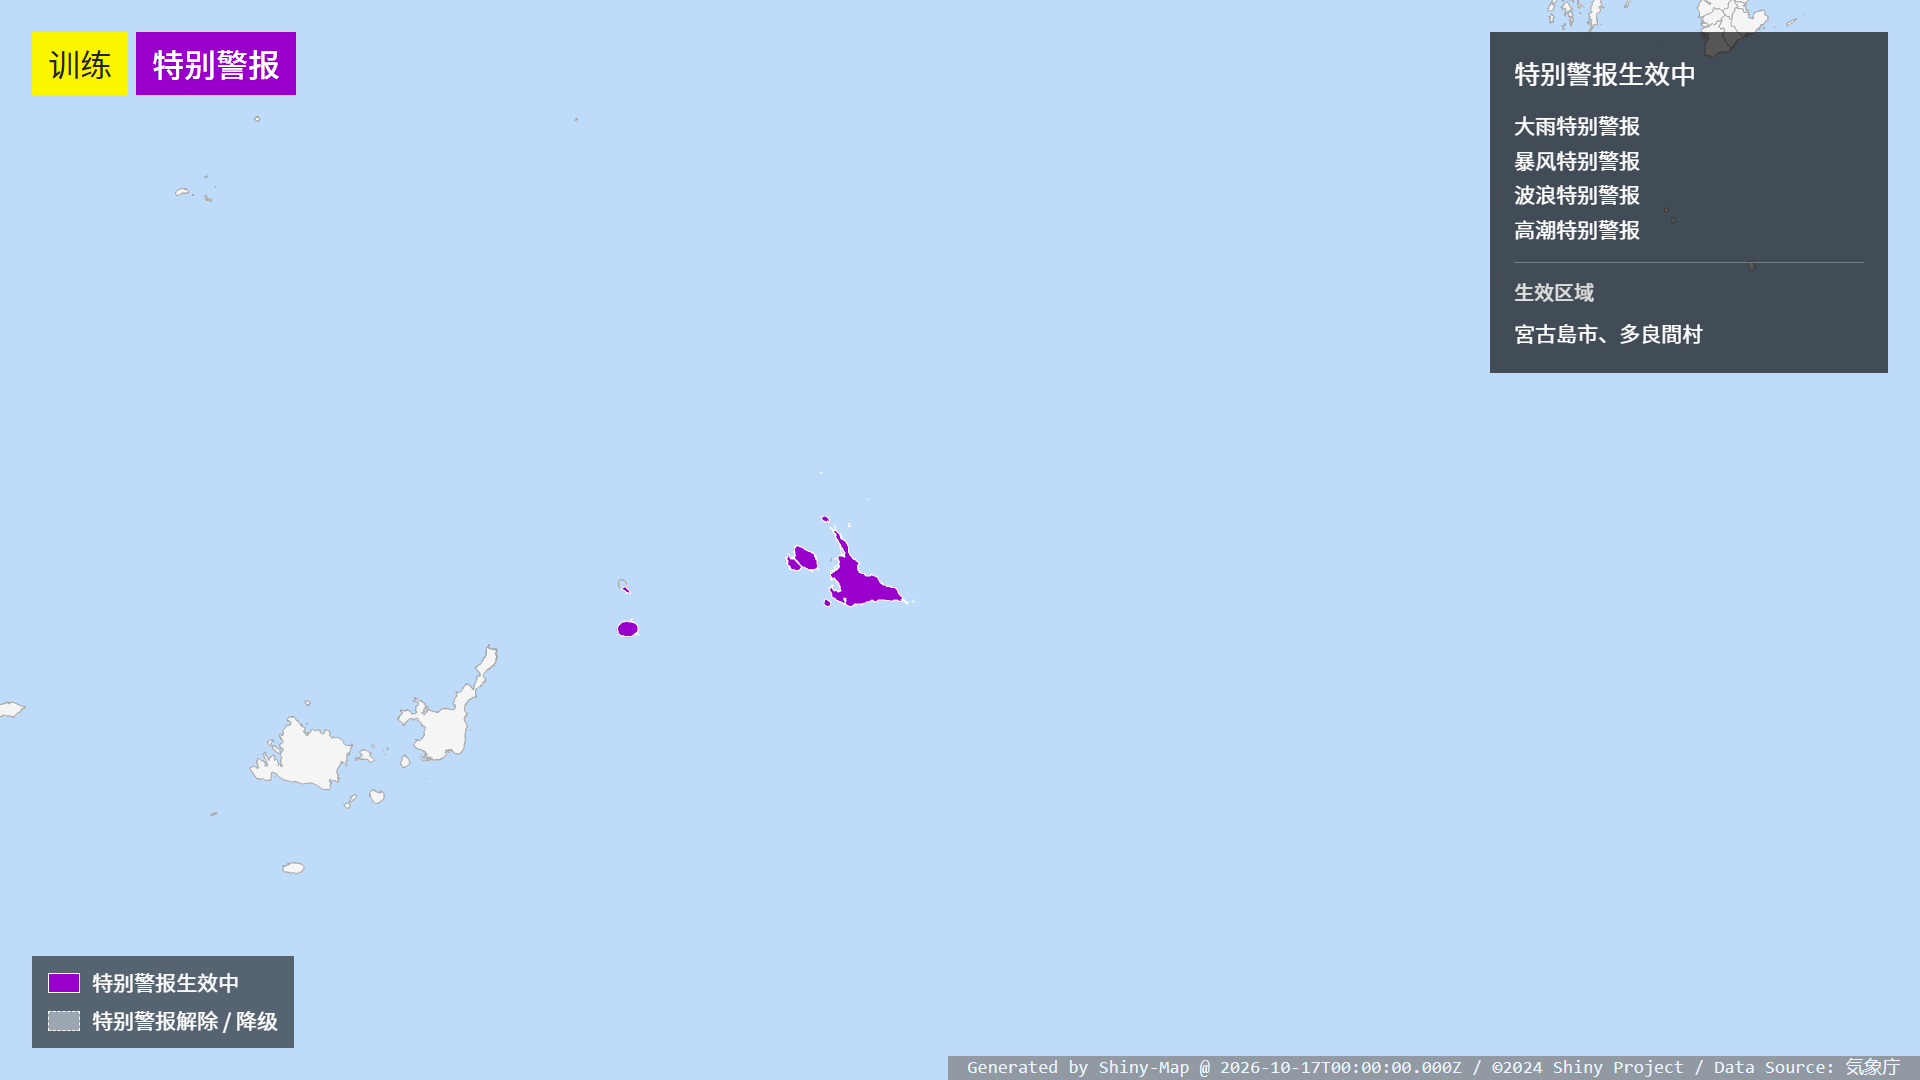
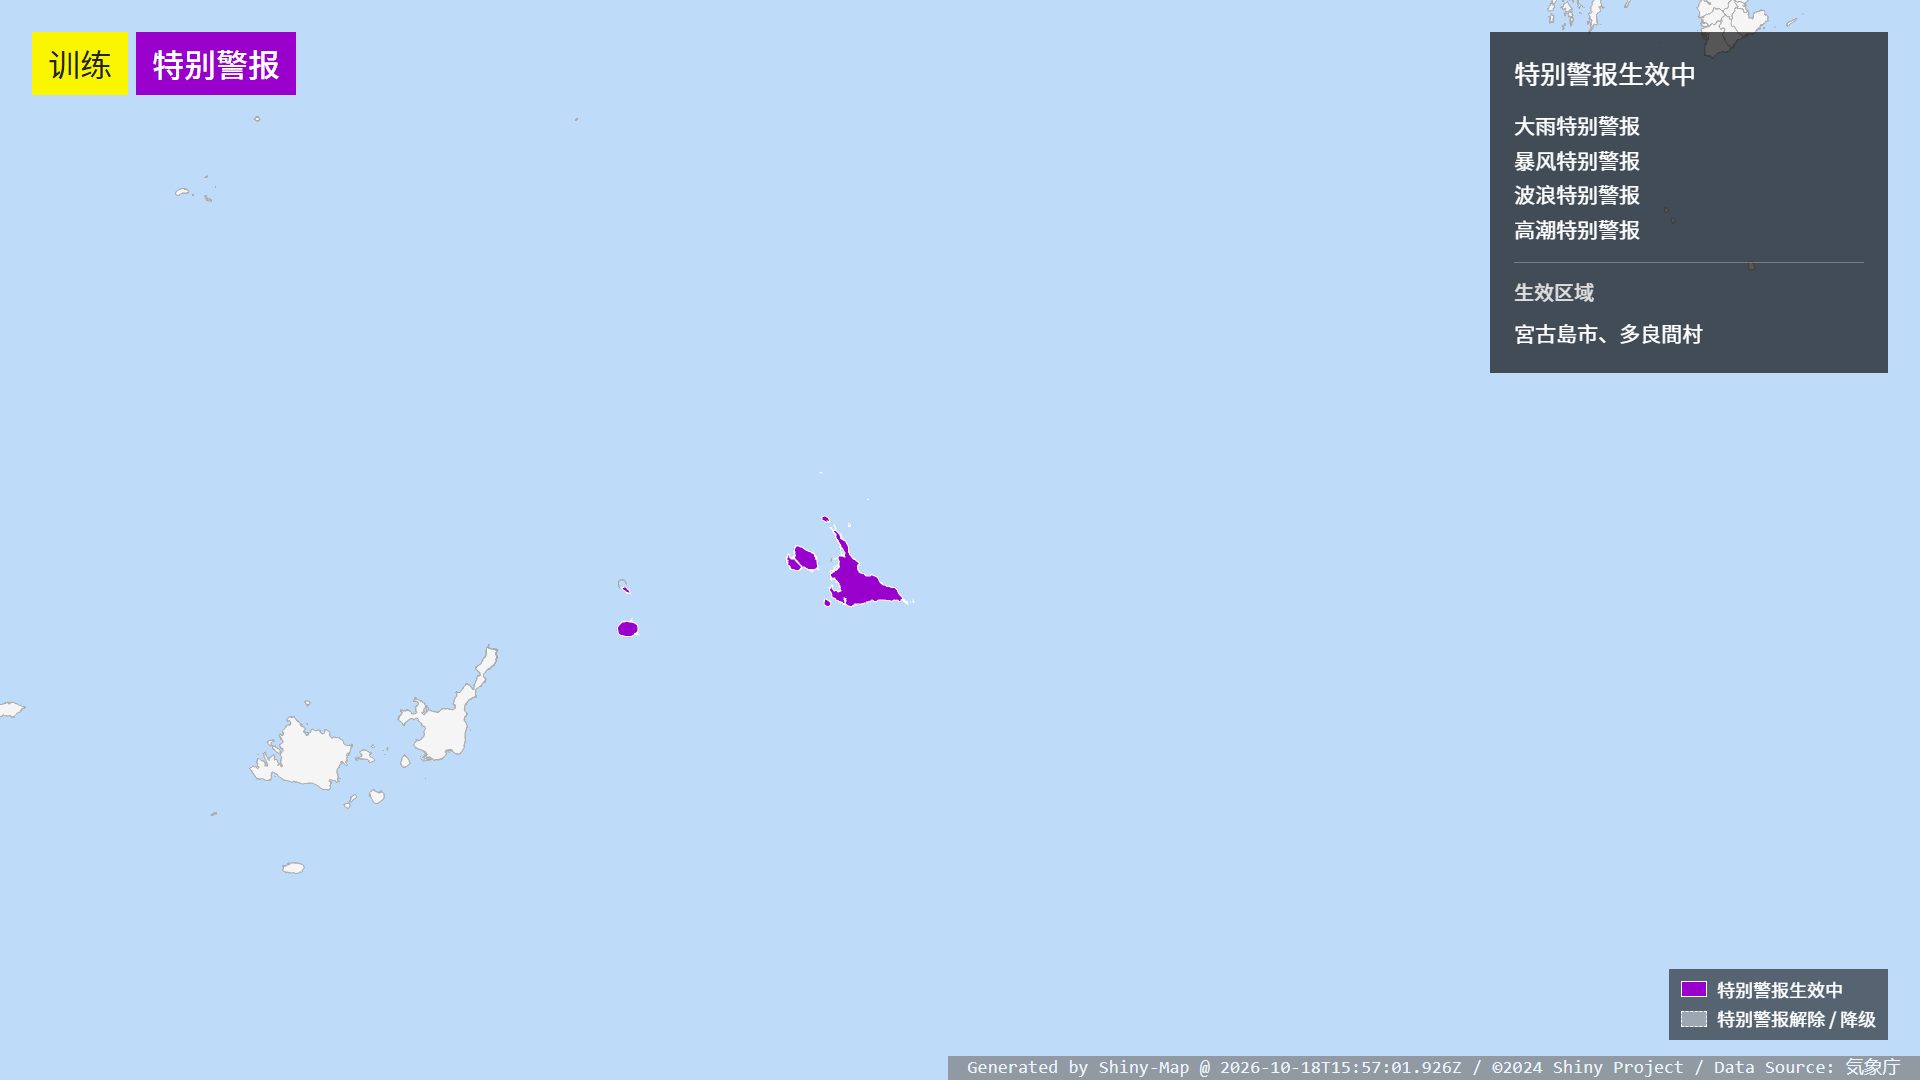
style: unify compact map legends in bottom-right corner

Changed region(s): [[0.0, 0.8861, 0.1562, 0.9778], [0.8438, 0.8861, 1.0, 0.9778], [0.6875, 0.9778, 0.75, 1.0]]

diff --git a/src/typhoon.html b/src/typhoon.html
@@ -2,6 +2,7 @@
 <html>
     <head>
         <meta charset="utf-8" />
+        <link rel="stylesheet" href="./legend.css" />
         <style>
             #map {
                 width: 100vw;
@@ -74,30 +75,6 @@
                 font-size: 5rem;
             }
 
-            #typhoon-legend {
-                opacity: 1;
-                position: fixed;
-                bottom: 2rem;
-                right: 2rem;
-                background-color: rgba(0, 0, 0, 0.4);
-                padding: 0.5rem 1rem;
-                font-family: "Noto Sans CJK SC";
-                z-index: 1;
-                color: #fff;
-            }
-
-            #typhoon-legend > div {
-                display: flex;
-                align-items: center;
-            }
-
-            .typhoon-legend-icon {
-                width: 8px;
-                height: 8px;
-                margin-right: 12px;
-                border-radius: 50%;
-            }
-
             .typhoon-legend-icon-1 {
                 background-color: #65b516;
             }
@@ -126,12 +103,12 @@
             <span>台风变性为温带气旋</span>
         </div>
         <div id="map"></div>
-        <div id="typhoon-legend">
-            <div><i class="typhoon-legend-icon typhoon-legend-icon-1"></i> <span>热带风暴</span></div>
-            <div><i class="typhoon-legend-icon typhoon-legend-icon-2"></i> <span>强热带风暴</span></div>
-            <div><i class="typhoon-legend-icon typhoon-legend-icon-3"></i> <span>台风</span></div>
-            <div><i class="typhoon-legend-icon typhoon-legend-icon-4"></i> <span>强台风</span></div>
-            <div><i class="typhoon-legend-icon typhoon-legend-icon-5"></i> <span>超强台风</span></div>
+        <div id="typhoon-legend" class="map-legend">
+            <div><i class="map-legend-swatch typhoon-legend-icon-1"></i> <span>热带风暴</span></div>
+            <div><i class="map-legend-swatch typhoon-legend-icon-2"></i> <span>强热带风暴</span></div>
+            <div><i class="map-legend-swatch typhoon-legend-icon-3"></i> <span>台风</span></div>
+            <div><i class="map-legend-swatch typhoon-legend-icon-4"></i> <span>强台风</span></div>
+            <div><i class="map-legend-swatch typhoon-legend-icon-5"></i> <span>超强台风</span></div>
         </div>
         <footer id="footer">Generated by Shiny-Map.</footer>
         <script src="./typhoon.js" type="module"></script>

diff --git a/src/ew.html b/src/ew.html
@@ -3,6 +3,7 @@
 <head>
   <meta charset="utf-8">
   <title>JMA 特别警报</title>
+  <link rel="stylesheet" href="./legend.css">
   <style>
     body { margin: 0; color: white; font-family: 'Noto Sans CJK SC', 'Microsoft YaHei', sans-serif; }
     #map { width: 100vw; height: 100vh; background: #BEDBF9; }
@@ -16,9 +17,7 @@
     .section h2 { margin: 0 0 10px; font-size: 20px; font-weight: 500; color: #ddd; }
     .kind { line-height: 1.65; }
     #area-list, #ended-list { margin: 0; line-height: 1.7; overflow-wrap: anywhere; }
-    #legend { position: fixed; bottom: 2rem; left: 2rem; z-index: 2; padding: .5rem 1rem; background: rgba(0,0,0,.55); font-size: 21px; }
-    #legend div { display: flex; align-items: center; line-height: 1.8; }
-    .swatch { display: inline-block; width: 30px; height: 18px; margin-right: 12px; border: 1px solid white; background: #9900CC; }
+    .swatch { background: #9900CC; }
     .swatch.ended { background: #9da7b1; border-style: dashed; }
     #footer { position: fixed; bottom: 0; right: 0; z-index: 3; padding: 0 1vw; background: #7e7e7e; opacity: .7; font: 1.7vh/2.2vh 'Consolas', 'Noto Serif CJK SC', monospace; }
   </style>
@@ -34,9 +33,9 @@
     <section class="section" id="active-section"><h2>生效区域</h2><p id="area-list"></p></section>
     <section class="section" id="ended-section"><h2>解除 / 降级区域</h2><p id="ended-list"></p></section>
   </aside>
-  <div id="legend">
-    <div><i class="swatch"></i>特别警报生效中</div>
-    <div><i class="swatch ended"></i><span id="ended-legend">特别警报解除 / 降级</span></div>
+  <div id="legend" class="map-legend">
+    <div><i class="map-legend-swatch swatch"></i>特别警报生效中</div>
+    <div><i class="map-legend-swatch swatch ended"></i><span id="ended-legend">特别警报解除 / 降级</span></div>
   </div>
   <footer id="footer">Generated by Shiny-Map.</footer>
   <script src="./ew.js" type="module"></script>

diff --git a/src/index.html b/src/index.html
@@ -3,6 +3,7 @@
 
 <head>
   <meta charset="utf-8">
+  <link rel="stylesheet" href="./legend.css">
   <style>
     #map {
       width: 100vw;
@@ -53,24 +54,6 @@
 
     #tsunami-legend {
       opacity: 0;
-      position: fixed;
-      bottom: 2rem;
-      right: 2rem;
-      background-color: rgba(0, 0, 0, 0.4);
-      padding: .5rem 1rem;
-      font-family: 'Noto Sans CJK SC';
-    }
-
-    #tsunami-legend>div {
-      display: flex;
-      align-items: center;
-    }
-
-    .tsunami-legend-icon {
-      display: inline-block;
-      margin-right: 10px;
-      height: 3px;
-      width: 40px;
     }
 
     .tsunami-legend-icon-alert {
@@ -123,15 +106,15 @@
     <div id="info-title">
       <span>{Title}</span>
     </div>
-    <div id="tsunami-legend">
+    <div id="tsunami-legend" class="map-legend">
         <div>
-            <i class="tsunami-legend-icon tsunami-legend-icon-alert"></i> <span>大海啸警报</span>
+            <i class="map-legend-swatch tsunami-legend-icon-alert"></i> <span>大海啸警报</span>
         </div>
         <div>
-            <i class="tsunami-legend-icon tsunami-legend-icon-warning"></i> <span>海啸警报</span>
+            <i class="map-legend-swatch tsunami-legend-icon-warning"></i> <span>海啸警报</span>
         </div>
         <div>
-            <i class="tsunami-legend-icon tsunami-legend-icon-notice"></i> <span>海啸注意报</span>
+            <i class="map-legend-swatch tsunami-legend-icon-notice"></i> <span>海啸注意报</span>
         </div>
     </div>
   </div>

diff --git a/src/legend.css b/src/legend.css
@@ -1,0 +1,26 @@
+.map-legend {
+    position: fixed;
+    bottom: 2.5rem;
+    right: 2rem;
+    z-index: 2;
+    padding: 0.375rem 0.75rem;
+    background: rgba(0, 0, 0, 0.55);
+    color: white;
+    font-family: "Noto Sans CJK SC", "Microsoft YaHei", sans-serif;
+    font-size: 18px;
+}
+
+.map-legend > div {
+    display: flex;
+    align-items: center;
+    line-height: 1.65;
+}
+
+.map-legend-swatch {
+    display: inline-block;
+    flex-shrink: 0;
+    width: 24px;
+    height: 14px;
+    margin-right: 10px;
+    border: 1px solid white;
+}
